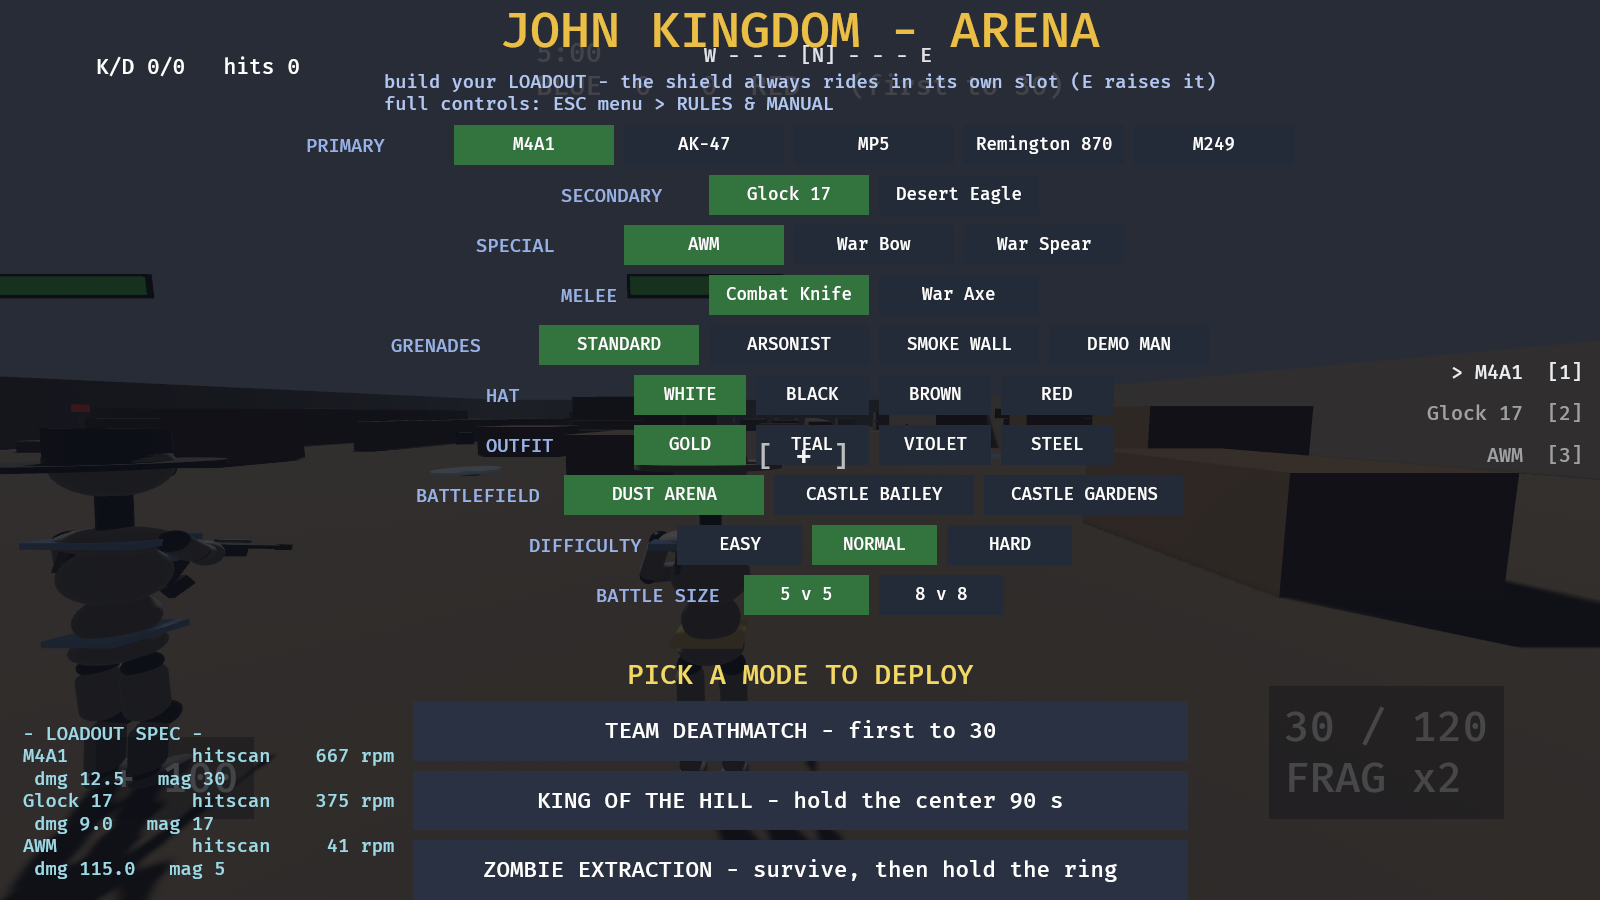
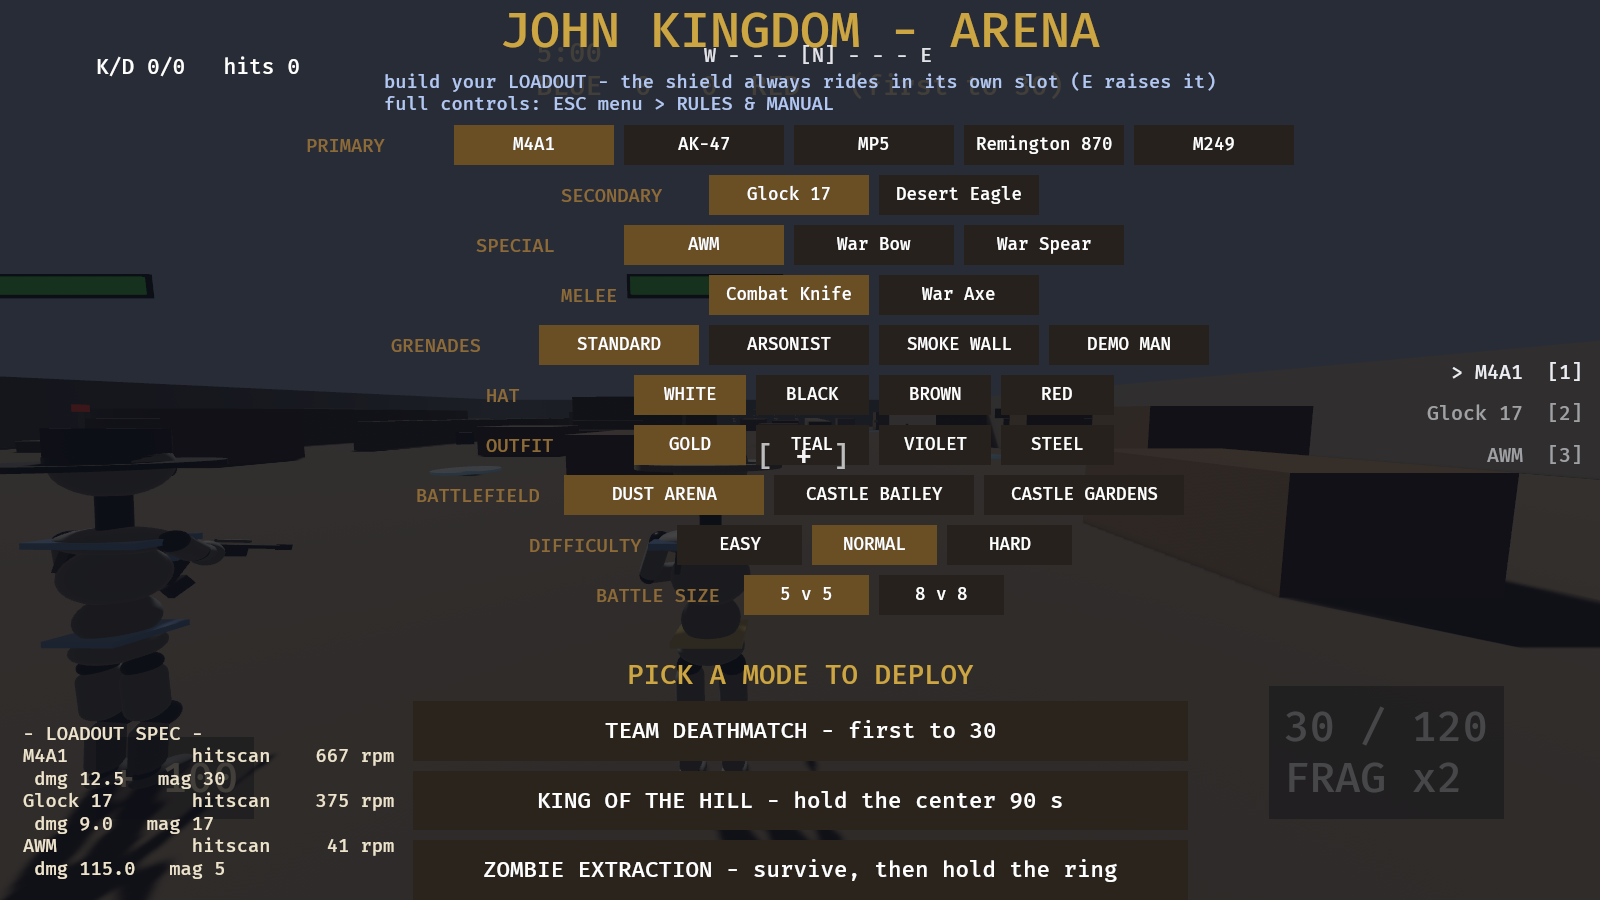
Retheme the UI to the key art - one palette instead of 30 magic literals
The menu ran cool blue-grey chrome with cyan text over warm gold-and-
sepia key art. Once the art was actually on screen the mismatch was
obvious: it read as two different games stapled together.

There were no colour constants at all - every colour in the file was a
magic literal. So this adds `branding::palette`, sampled from the key
art (DUST, SHADOW, GOLD, BRONZE, PLUME, PARCHMENT, PARCHMENT_DIM), and
routes the decorative chrome through it. 30 literals replaced.

THE LINE THIS DELIBERATELY DOES NOT CROSS. Nothing here touches a
colour that carries MEANING: team blue and orange, the HUD's danger
red, the low-health warning, the minimap's friend/foe dots. Those are
signal a player reads under pressure, and retheming them to match a
painting would trade readability for mood. Chrome follows the art;
signal does not. The palette test asserts the decorative PLUME red
stays clearly distinguishable from the HUD's danger red for exactly
this reason - set dressing must never read as a warning.

Changed: the window clear colour (cool blue-grey -> dust), the tech
readout (cyan -> parchment, the single worst clash), menu panels (cool
navy -> warm shadow), four blue-white text colours -> parchment, three
different near-gold yellows collapsed onto ONE canonical GOLD, the
loadout category labels (periwinkle -> bronze), every menu button idle
and hover state, and the shared select-highlight painter - selection
was a flat green fighting the gold palette and is now struck bronze,
[…]

diff --git a/engine/crates/jk_tdm/src/main.rs b/engine/crates/jk_tdm/src/main.rs
@@ -2804,7 +2804,9 @@ fn main() {
         // splash state, systems and teardown, and skips itself entirely
         // when JK_CAPTURE is set so it never lands in a scripted capture.
         .add_plugins(branding::BrandingPlugin)
-        .insert_resource(ClearColor(Color::srgb(0.58, 0.63, 0.72)))
+        // Sampled from the key art. Was a cool blue-grey, which fought
+        // the warm gold-and-sepia art on every menu screen.
+        .insert_resource(ClearColor(branding::palette::DUST))
         .init_resource::<CamCtl>()
         // R4: loaded once here, held fixed for the whole run - same
         // lifetime as the consts it can override.
@@ -5155,7 +5157,7 @@ fn setup(
                     font_size: 22.0,
                     ..default()
                 },
-                TextColor(Color::srgb(0.95, 0.95, 1.0)),
+                TextColor(branding::palette::PARCHMENT),
                 ScoreTimerText,
             ));
         });
@@ -5195,7 +5197,7 @@ fn setup(
             font_size: 34.0,
             ..default()
         },
-        TextColor(Color::srgb(0.95, 0.85, 0.4)),
+        TextColor(branding::palette::GOLD),
         Node {
             position_type: PositionType::Absolute,
             left: Val::Percent(30.0),
@@ -5272,7 +5274,7 @@ fn setup(
                 padding: UiRect::all(Val::Px(12.0)),
                 ..default()
             },
-            BackgroundColor(Color::srgba(0.04, 0.05, 0.08, 0.5)),
+            BackgroundColor(Color::srgba(0.10, 0.08, 0.06, 0.55)),
         ))
         .with_children(|p| {
             p.spawn((
@@ -5281,7 +5283,7 @@ fn setup(
                     font_size: 34.0,
                     ..default()
                 },
-                TextColor(Color::srgb(0.95, 0.96, 0.98)),
+                TextColor(branding::palette::PARCHMENT),
                 PanelInfoText,
             ));
         });
@@ -5297,7 +5299,7 @@ fn setup(
                 padding: UiRect::all(Val::Px(12.0)),
                 ..default()
             },
-            BackgroundColor(Color::srgba(0.04, 0.05, 0.08, 0.5)),
+            BackgroundColor(Color::srgba(0.10, 0.08, 0.06, 0.55)),
         ))
         .with_children(|p| {
             p.spawn((
@@ -5322,7 +5324,7 @@ fn setup(
                 flex_direction: FlexDirection::Column,
                 ..default()
             },
-            BackgroundColor(Color::srgba(0.04, 0.05, 0.08, 0.88)),
+            BackgroundColor(Color::srgba(0.10, 0.08, 0.06, 0.90)),
             Visibility::Hidden,
             ScoreboardRoot,
         ))
@@ -5434,7 +5436,7 @@ fn setup(
                 height: Val::Px(MINIMAP_PX),
                 ..default()
             },
-            BackgroundColor(Color::srgba(0.04, 0.06, 0.05, 0.72)),
+            BackgroundColor(Color::srgba(0.10, 0.08, 0.06, 0.76)),
             MinimapRoot,
         ))
         .with_children(|p| {
@@ -9694,7 +9696,7 @@ fn open_controls(mut commands: Commands) {
                     font_size: 34.0,
                     ..default()
                 },
-                TextColor(Color::srgb(0.92, 0.75, 0.27)),
+                TextColor(branding::palette::GOLD),
                 Node {
                     margin: UiRect::bottom(Val::Px(16.0)),
                     ..default()
@@ -9711,7 +9713,7 @@ fn open_controls(mut commands: Commands) {
                     font_size: 19.0,
                     ..default()
                 },
-                TextColor(Color::srgb(0.92, 0.93, 0.95)),
+                TextColor(branding::palette::PARCHMENT),
             ));
         });
 }
@@ -9758,7 +9760,7 @@ fn first_run_card(
                         font_size: 20.0,
                         ..default()
                     },
-                    TextColor(Color::srgb(0.95, 0.8, 0.3)),
+                    TextColor(branding::palette::GOLD),
                 ));
                 let mut body = String::new();
                 for b in BIND_REGISTRY.iter().filter(|b| b.essential) {
@@ -9771,7 +9773,7 @@ fn first_run_card(
                         font_size: 16.0,
                         ..default()
                     },
-                    TextColor(Color::srgb(0.9, 0.92, 0.95)),
+                    TextColor(branding::palette::PARCHMENT),
                 ));
             });
         return;
@@ -9858,7 +9860,10 @@ fn pick_row<C: Component + Copy>(
                     font_size: 15.0,
                     ..default()
                 },
-                TextColor(Color::srgb(0.6, 0.7, 0.9)),
+                // category labels: were cool periwinkle against a warm
+                // gold title. Bronze puts them in the same metal family
+                // as the selection they label.
+                TextColor(branding::palette::BRONZE),
                 Node {
                     width: Val::Px(110.0),
                     ..default()
@@ -10004,7 +10009,7 @@ fn open_intro(
             font_size: 15.0,
             ..default()
         },
-        TextColor(Color::srgb(0.62, 0.85, 0.90)),
+        TextColor(branding::palette::PARCHMENT),
         // capped width: the centered mode buttons are 620 wide, so on a
         // 1280-wide window they start around x=330 - an unconstrained
         // readout ran straight underneath them and the two texts
@@ -10026,7 +10031,7 @@ fn open_intro(
             font_size: 19.0,
             ..default()
         },
-        TextColor(Color::srgb(0.95, 0.85, 0.4)),
+        TextColor(branding::palette::GOLD),
         Node {
             position_type: PositionType::Absolute,
             right: Val::Px(18.0),
@@ -10057,7 +10062,7 @@ fn open_intro(
             p.spawn((
                 Text::new("JOHN KINGDOM - ARENA"),
                 TextFont { font_size: 40.0, ..default() },
-                TextColor(Color::srgb(0.92, 0.75, 0.27)),
+                TextColor(branding::palette::GOLD),
             ));
             p.spawn((
                 Text::new("build your LOADOUT - the shield always rides in its own slot (E raises it)\nfull controls: ESC menu > RULES & MANUAL"),
@@ -10124,7 +10129,7 @@ fn open_intro(
             p.spawn((
                 Text::new("\nPICK A MODE TO DEPLOY"),
                 TextFont { font_size: 22.0, ..default() },
-                TextColor(Color::srgb(0.95, 0.85, 0.4)),
+                TextColor(branding::palette::GOLD),
             ));
             for (label, which) in [
                 ("TEAM DEATHMATCH - first to 30", ModeButton::Tdm),
@@ -10146,7 +10151,7 @@ fn open_intro(
                         align_items: AlignItems::Center,
                         ..default()
                     },
-                    BackgroundColor(Color::srgb(0.16, 0.19, 0.26)),
+                    BackgroundColor(Color::srgb(0.17, 0.14, 0.11)),
                 ))
                 .with_children(|b| {
                     b.spawn((
@@ -10196,8 +10201,8 @@ fn intro_buttons(
 ) {
     for (interaction, which, mut bg) in &mut q {
         match interaction {
-            Interaction::Hovered => *bg = BackgroundColor(Color::srgb(0.24, 0.29, 0.40)),
-            Interaction::None => *bg = BackgroundColor(Color::srgb(0.16, 0.19, 0.26)),
+            Interaction::Hovered => *bg = BackgroundColor(Color::srgb(0.30, 0.24, 0.15)),
+            Interaction::None => *bg = BackgroundColor(Color::srgb(0.17, 0.14, 0.11)),
             Interaction::Pressed => {
                 let mode = match which {
                     ModeButton::Tdm => Mode::Tdm,
@@ -10211,13 +10216,23 @@ fn intro_buttons(
 }
 
 /// Shared select-highlight painter for all the pick-rows.
+///
+/// Rethemed to the key art: selection was a flat green that fought the
+/// gold-and-bronze palette, and idle was a cool blue-grey. Selection is
+/// now struck BRONZE — the same metal as the emblem's frame — so the
+/// chosen item reads as part of the same object the title is made of.
+///
+/// One painter drives every pick-row on the loadout screen, which is
+/// why this is a three-line change rather than forty scattered ones.
 fn paint(bg: &mut BackgroundColor, selected: bool, hovered: bool) {
     *bg = BackgroundColor(if selected {
-        Color::srgb(0.20, 0.45, 0.24)
+        // struck bronze, lifted so white label text still reads on it
+        Color::srgb(0.42, 0.31, 0.14)
     } else if hovered {
-        Color::srgb(0.22, 0.30, 0.24)
+        Color::srgb(0.26, 0.21, 0.14)
     } else {
-        Color::srgb(0.14, 0.17, 0.22)
+        // warm shadow, not the old cool slate
+        Color::srgb(0.15, 0.13, 0.11)
     });
 }
 
@@ -10402,7 +10417,7 @@ fn open_menu(
                     font_size: 42.0,
                     ..default()
                 },
-                TextColor(Color::srgb(0.92, 0.75, 0.27)),
+                TextColor(branding::palette::GOLD),
                 Node {
                     margin: UiRect::bottom(Val::Px(18.0)),
                     ..default()
@@ -10427,7 +10442,7 @@ fn open_menu(
                         align_items: AlignItems::Center,
                         ..default()
                     },
-                    BackgroundColor(Color::srgb(0.16, 0.19, 0.26)),
+                    BackgroundColor(Color::srgb(0.17, 0.14, 0.11)),
                 ))
                 .with_children(|b| {
                     b.spawn((
@@ -10482,7 +10497,7 @@ fn open_settings(
                     font_size: 40.0,
                     ..default()
                 },
-                TextColor(Color::srgb(0.92, 0.75, 0.27)),
+                TextColor(branding::palette::GOLD),
             ));
             p.spawn((
                 Text::new("Click a row to change it.  Settings apply immediately.\nmode / map / difficulty / team size / loadout:  ESC menu > Change Mode / Loadout"),
@@ -10533,7 +10548,7 @@ fn open_settings(
                         align_items: AlignItems::Center,
                         ..default()
                     },
-                    BackgroundColor(Color::srgb(0.16, 0.19, 0.26)),
+                    BackgroundColor(Color::srgb(0.17, 0.14, 0.11)),
                 ))
                 .with_children(|b| {
                     let mut e = b.spawn((
@@ -10595,8 +10610,8 @@ fn settings_buttons(
     let mut dirty = false;
     for (interaction, which, mut bg) in &mut q {
         match interaction {
-            Interaction::Hovered => *bg = BackgroundColor(Color::srgb(0.24, 0.29, 0.40)),
-            Interaction::None => *bg = BackgroundColor(Color::srgb(0.16, 0.19, 0.26)),
+            Interaction::Hovered => *bg = BackgroundColor(Color::srgb(0.30, 0.24, 0.15)),
+            Interaction::None => *bg = BackgroundColor(Color::srgb(0.17, 0.14, 0.11)),
             Interaction::Pressed => match which {
                 SettingsButton::SwapMouse => {
                     settings.swap_mouse = !settings.swap_mouse;
@@ -10723,7 +10738,7 @@ fn open_manual(
                     font_size: 30.0,
                     ..default()
                 },
-                TextColor(Color::srgb(0.92, 0.75, 0.27)),
+                TextColor(branding::palette::GOLD),
             ));
             p.spawn((
                 Text::new(manual),
@@ -10753,8 +10768,8 @@ fn menu_buttons(
 ) {
     for (interaction, which, mut bg) in &mut q {
         match interaction {
-            Interaction::Hovered => *bg = BackgroundColor(Color::srgb(0.24, 0.29, 0.40)),
-            Interaction::None => *bg = BackgroundColor(Color::srgb(0.16, 0.19, 0.26)),
+            Interaction::Hovered => *bg = BackgroundColor(Color::srgb(0.30, 0.24, 0.15)),
+            Interaction::None => *bg = BackgroundColor(Color::srgb(0.17, 0.14, 0.11)),
             Interaction::Pressed => match which {
                 MenuButton::Resume => next.set(GameState::Playing),
                 MenuButton::Restart => {

diff --git a/engine/crates/jk_tdm/src/branding.rs b/engine/crates/jk_tdm/src/branding.rs
@@ -29,6 +29,40 @@
 
 use bevy::prelude::*;
 
+// ---- palette ---------------------------------------------------------
+// Sampled from the key art so the UI and the art are the same world.
+// The menu previously ran cool blue-grey chrome with cyan text over
+// warm gold-and-sepia art, which read as two different games stapled
+// together.
+//
+// **Decorative only.** Nothing here touches a colour that carries
+// MEANING — team blue and orange, danger red, low-health warning,
+// the minimap's friend/foe dots. Those are semantics a player reads
+// under pressure, and retheming them to match a painting would trade
+// readability for mood. That is the line: chrome follows the art,
+// signal does not.
+pub mod palette {
+    use bevy::prelude::Color;
+
+    /// Dusty amber haze — the key art's ground and sky.
+    pub const DUST: Color = Color::srgb(0.72, 0.62, 0.45);
+    /// Deep shadowed brown for panels and pills, replacing the old
+    /// cool navy `srgba(0.04, 0.05, 0.08, ..)`.
+    pub const SHADOW: Color = Color::srgb(0.10, 0.08, 0.06);
+    /// Antique gold — the laurel, the eagle, the emblem's frame. The
+    /// primary accent and the colour of anything selected.
+    pub const GOLD: Color = Color::srgb(0.80, 0.65, 0.26);
+    /// Struck bronze, for secondary rules and inactive accents.
+    pub const BRONZE: Color = Color::srgb(0.55, 0.42, 0.22);
+    /// The legionaries' plume. An accent, NOT the danger red — the HUD
+    /// keeps its own brighter red for damage so the two never confuse.
+    pub const PLUME: Color = Color::srgb(0.62, 0.13, 0.11);
+    /// Parchment — body text on dark ground. Warm, not the old blue-white.
+    pub const PARCHMENT: Color = Color::srgb(0.93, 0.89, 0.80);
+    /// Muted parchment for secondary/inactive text.
+    pub const PARCHMENT_DIM: Color = Color::srgb(0.68, 0.63, 0.55);
+}
+
 // ---- timings ---------------------------------------------------------
 // A splash is a promise about how long the player waits. These are the
 // whole contract, in one place.
@@ -464,6 +498,75 @@ mod tests {
         assert!(
             Z_EMBLEM_MARK < 40,
             "the mark must render beneath every HUD cluster"
+        );
+    }
+
+    /// The palette must actually be the key art's palette — warm, and
+    /// legible in the pairings the UI really uses.
+    ///
+    /// Asserts RELATIONSHIPS, not hex values, so the palette can be
+    /// re-sampled from new art without rewriting the test. What it
+    /// pins is the reason the palette exists: the old chrome was COOL
+    /// (blue channel dominant) over warm art, and that is the specific
+    /// mistake that must not come back.
+    #[test]
+    fn the_palette_is_warm_and_readable() {
+        use palette::*;
+        let rgb = |c: Color| {
+            let s = c.to_srgba();
+            (s.red, s.green, s.blue)
+        };
+
+        // 1. WARM: every ground/accent colour must have more red than
+        //    blue. The palette this replaced ran srgb(0.58,0.63,0.72) -
+        //    blue-dominant - against gold-and-sepia art.
+        for (name, c) in [
+            ("DUST", DUST),
+            ("GOLD", GOLD),
+            ("BRONZE", BRONZE),
+            ("PLUME", PLUME),
+            ("PARCHMENT", PARCHMENT),
+            ("PARCHMENT_DIM", PARCHMENT_DIM),
+            ("SHADOW", SHADOW),
+        ] {
+            let (r, _, b) = rgb(c);
+            assert!(
+                r > b,
+                "{name} is cool (r={r:.2} <= b={b:.2}) - the whole point of \
+                 this palette is that the chrome stops fighting warm art"
+            );
+        }
+
+        // 2. READABLE: text on its intended ground must actually
+        //    separate. Rough relative luminance is enough to catch a
+        //    palette edit that makes body text vanish into a panel.
+        let lum = |c: Color| {
+            let (r, g, b) = rgb(c);
+            0.2126 * r + 0.7152 * g + 0.0722 * b
+        };
+        assert!(
+            lum(PARCHMENT) - lum(SHADOW) > 0.5,
+            "parchment on shadow has too little contrast to read"
+        );
+        assert!(
+            lum(GOLD) - lum(SHADOW) > 0.25,
+            "gold on shadow has too little contrast for a selected item"
+        );
+        assert!(
+            lum(PARCHMENT) > lum(PARCHMENT_DIM),
+            "the dim variant must actually be dimmer than the primary"
+        );
+
+        // 3. The accent PLUME must stay distinguishable from the HUD's
+        //    danger red, which is deliberately NOT in this palette.
+        //    A decorative red that reads as a warning is a real hazard.
+        let hud_danger = Color::srgb(1.0, 0.25, 0.2);
+        let (pr, _, _) = rgb(PLUME);
+        let (dr, _, _) = rgb(hud_danger);
+        assert!(
+            dr - pr > 0.25,
+            "the decorative plume red is too close to the HUD's danger red - \
+             a player could read set dressing as a warning"
         );
     }
 
